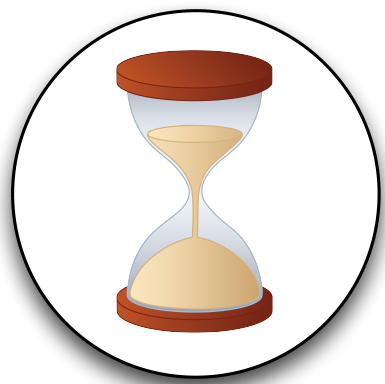
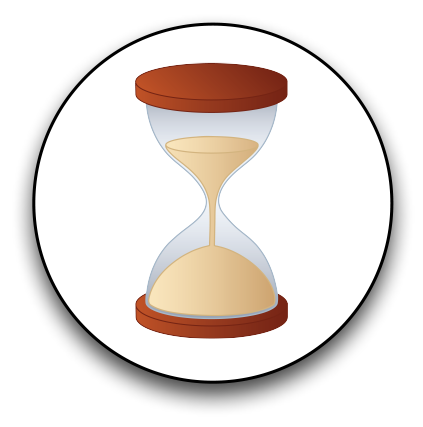
change coin of review

Changed region(s): [[0.0, 0.0, 1.0, 1.0]]

diff --git a/code/show_article/ios_client/MasterDetail/ReviewViewController.m b/code/show_article/ios_client/MasterDetail/ReviewViewController.m
@@ -232,7 +232,7 @@
     feedbackTextView.attributedText = attString1;
 
     UIButton* btn = [UIButton buttonWithType:UIButtonTypeCustom];
-    [btn setImage:[UIImage imageNamed:@"coin.png"] forState:UIControlStateNormal];
+    [btn setImage:[UIImage imageNamed:@"coin2.png"] forState:UIControlStateNormal];
     self.coinButton = btn;
 
     [summaryTextView addSubview:btn];
@@ -246,7 +246,7 @@
     [summaryTextView addSubview:feedbackTextView];
 
     // configure frames of summaryTextView's subview components
-    [btn setFrame:CGRectMake(summaryTextView.frame.size.width - 60, 50.0f, 55.0f, 55.0f)];
+    [btn setFrame:CGRectMake(summaryTextView.frame.size.width - 60, 50.0f, 40.0f, 40.0f)];
     [titleTextView setFrame:CGRectMake(45, 10, self.view.frame.size.width, textHeight)];
 
     [figureImageView setFrame:CGRectMake(15, 10, ICON_WIDTH, ICON_HEIGHT)];

diff --git a/code/show_article/ios_client/MasterDetail/ComponentUtil.m b/code/show_article/ios_client/MasterDetail/ComponentUtil.m
@@ -15,7 +15,6 @@
                chHeight:(NSInteger)chHeight
                  tag:(NSInteger)tag
 {
-
     // TODO better way, instead of workaround for the layout
     if ([text length] == 1)
       text = [NSString stringWithFormat: @"%@ ", text];
